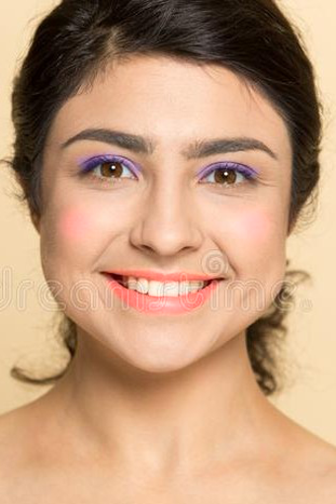
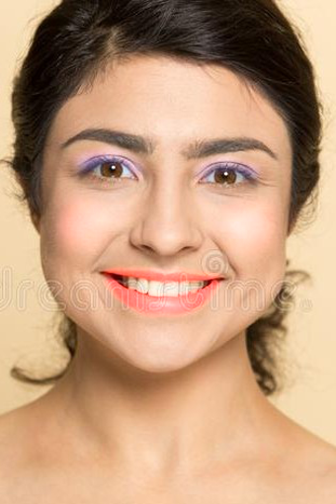
slight modification

diff --git a/applymakeup.py b/applymakeup.py
@@ -3,6 +3,7 @@ import json
 import cv2
 import numpy as np
 
+
 # Define facial regions
 FACIAL_REGIONS = {
     "face_shape_right": list(range(0, 11)),
@@ -65,14 +66,10 @@ def apply_eyeshadow(upper_eyelid_points, lower_eyebrow_points, image, color, int
         [(int(p['x']), int(p['y'])) for p in upper_eyelid_points] + mp, np.int32
     )
     cv2.fillPoly(mask, [polygon], color)
-    blurred_eyeshadow = cv2.GaussianBlur(mask, (15, 15), 0)
+    blurred_eyeshadow = cv2.blur(mask, (15, 15), 0)
     return cv2.addWeighted(image, 1, blurred_eyeshadow, intensity, 0)
     #return cv2.polylines(image_out, [polygon], isClosed=True, color=(0, 255, 0), thickness=1)
     
-
-# Apply lipstick
-import cv2
-import numpy as np
 
 
 def apply_lipstick(outer_lips, inner_lips, image, color, intensity):
@@ -96,7 +93,7 @@ def apply_blush(face_shape, eye_lower, image, color, radius, intensity):
     mid_y = (face_shape[len(face_shape) // 2]['y'] + eye_lower[len(eye_lower) // 2]['y']) // 2
     mask = np.zeros_like(image)
     cv2.circle(mask, (int(mid_x), int(mid_y)), radius, color, -1)
-    blurred_blush = cv2.GaussianBlur(mask, (35, 35), 0)
+    blurred_blush = cv2.blur(mask, (35, 35), 0)
     return cv2.addWeighted(image, 1, blurred_blush, intensity, 0)
 
 
